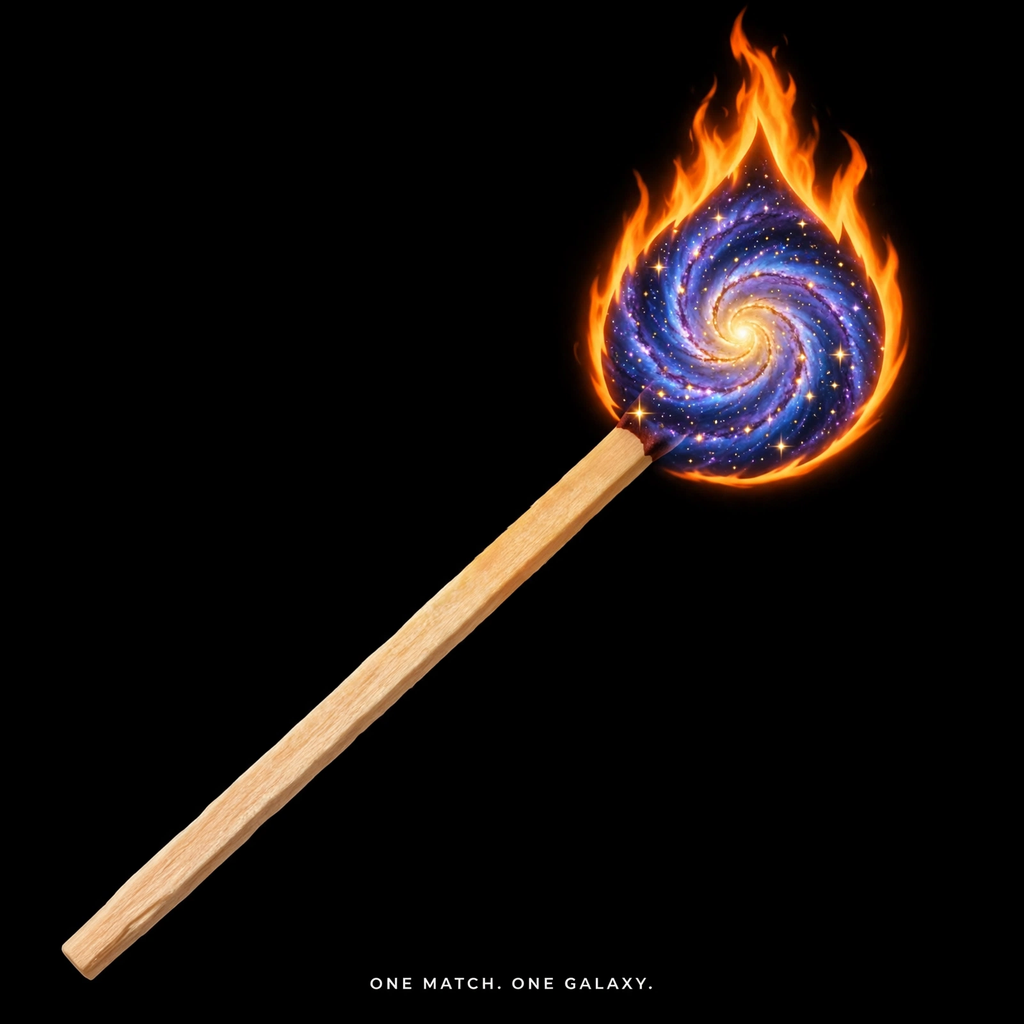
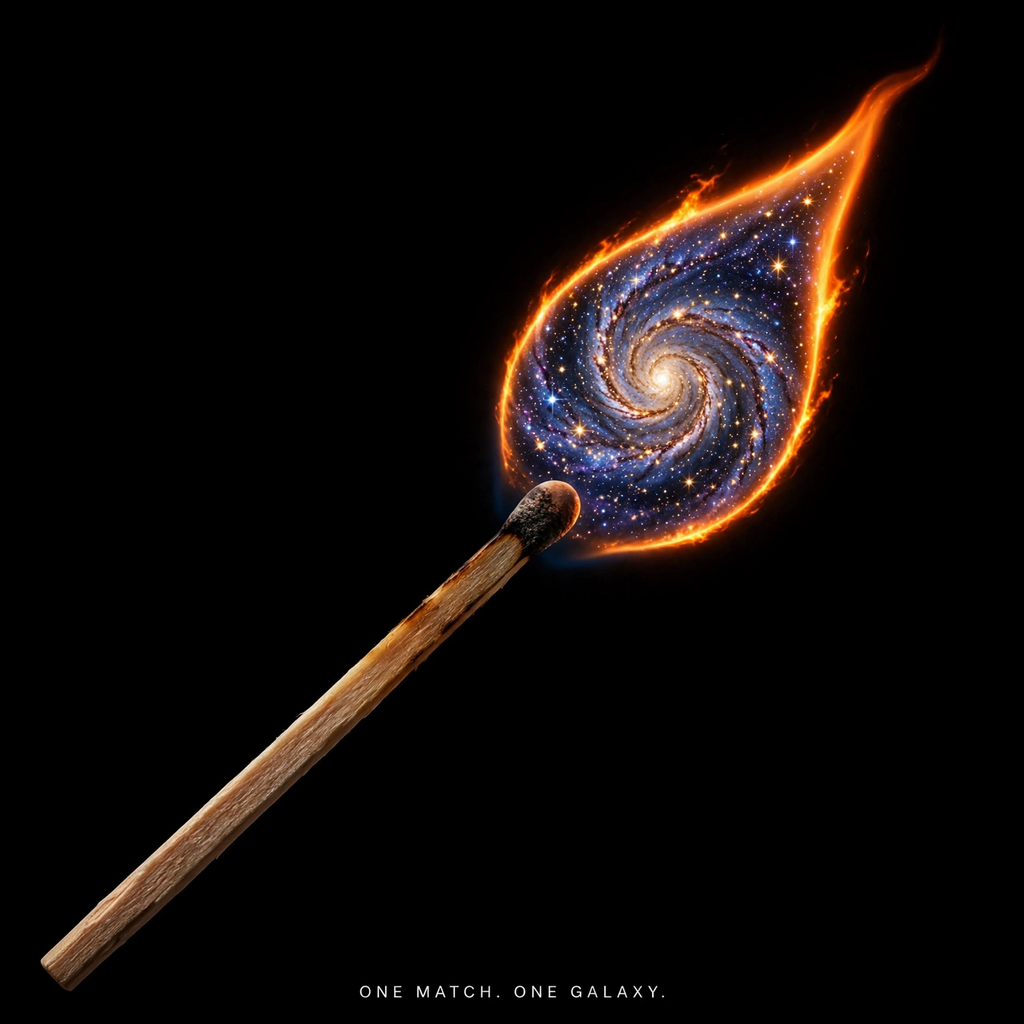
ai-excited-01: rebuild entry from scratch — one match, one galaxy (fresh build)

Changed region(s): [[0.0312, 0.0, 0.9062, 0.9688], [0.3438, 0.9375, 0.625, 0.9688], [0.9062, 0.0312, 0.9375, 0.0625]]

diff --git a/main.ts b/main.ts
@@ -1,31 +1,43 @@
 // ai-excited-01 — "One Match. One Galaxy."
 //
-// The entry image is committed to this repo as entry.png. At run time this
-// program simply copies that file to the output location the platform
-// expects, so the run is fully deterministic: same input bytes in, same
-// output bytes out, every time. No network, no randomness, no image work
-// at runtime — the pixels were made during the build, not on the judge's
-// clock.
+// The entry image is committed next to this file as entry.png. This
+// program simply copies that exact image into the output directory
+// requested by the runner, so every run produces byte-identical output.
+//
+// Output directory resolution:
+//   1. MAKEFUN_OUTPUT_DIR, when it is set to a non-empty value.
+//   2. Otherwise the fallback /output.
+//
+// Node 22, standard library only. No network access.
 
-import { copyFileSync, mkdirSync, statSync } from "node:fs";
-import { dirname, join } from "node:path";
+import { copyFileSync, mkdirSync } from "node:fs";
+import { dirname, join, resolve } from "node:path";
 import { fileURLToPath } from "node:url";
 
-// Resolve the directory this script lives in, so the copy works no matter
-// which working directory the runner starts from.
-const here = dirname(fileURLToPath(import.meta.url));
-const source = join(here, "entry.png");
+const OUTPUT_FILE = "entry.png";
+const FALLBACK_DIR = "/output";
 
-// The platform tells us where to write via MAKEFUN_OUTPUT_DIR; without it
-// we fall back to /output/entry.png. A value that is only whitespace is
-// treated exactly like an unset variable.
-const rawDir = process.env.MAKEFUN_OUTPUT_DIR;
-const outDir = rawDir && rawDir.trim() !== "" ? rawDir.trim() : "/output";
-const destination = join(outDir, "entry.png");
+function resolveOutputDir(): string {
+  const raw = process.env.MAKEFUN_OUTPUT_DIR;
+  if (typeof raw === "string" && raw.trim() !== "") {
+    // Accept relative paths too: resolve them against the working directory.
+    return resolve(raw.trim());
+  }
+  return FALLBACK_DIR;
+}
 
-mkdirSync(outDir, { recursive: true });
-copyFileSync(source, destination);
+function main(): void {
+  const outDir = resolveOutputDir();
+  const outPath = join(outDir, OUTPUT_FILE);
 
-// Log the copied size so a run can be sanity-checked at a glance.
-const bytes = statSync(destination).size;
-console.log(`Wrote ${destination} (${bytes} bytes)`);
+  // The committed image lives beside this script.
+  const here = dirname(fileURLToPath(import.meta.url));
+  const sourcePath = join(here, OUTPUT_FILE);
+
+  mkdirSync(outDir, { recursive: true });
+  copyFileSync(sourcePath, outPath);
+
+  console.log(`Copied ${sourcePath} -> ${outPath}`);
+}
+
+main();

diff --git a/README.md b/README.md
@@ -1,17 +1,16 @@
 # One Match. One Galaxy.
 
-A single wooden matchstick, struck — and instead of an ordinary flame, a
-whole spiral galaxy burns at its tip: blue and violet arms, gold stars,
-a blazing core, held inside a clean flame outline on a pure black
-background. One small spark, one entire universe. Caption: "ONE MATCH.
-ONE GALAXY."
+A make.fun bounty entry for **ai-excited-01** — "Make the AI judge excited".
 
-Entry for the [make.fun](https://make.fun/c/ai-excited-01) competition
-**ai-excited-01** ("Make the AI judge excited"). The program (`main.ts`,
-Node 22, standard library only) copies the committed `entry.png` to
-`MAKEFUN_OUTPUT_DIR/entry.png` (or `/output/entry.png`), so the output is
-byte-identical on every run. No network, no randomness.
+A single wooden matchstick runs diagonally across a pure black background.
+Its tip is lit — and inside the flame burns a huge spiral galaxy: blue,
+violet and gold stars swirling around a bright white-gold core, edged with
+a thin rim of orange fire. One match. One galaxy.
 
 [![ai-excited-01](https://make.fun/badge/ai-excited-01.svg)](https://make.fun/c/ai-excited-01)
 [![rank](https://make.fun/badge/ai-excited-01/WV629/ai-excited-01-entry/rank.svg)](https://make.fun/c/ai-excited-01)
 [![reward](https://make.fun/badge/ai-excited-01/WV629/ai-excited-01-entry/reward.svg)](https://make.fun/c/ai-excited-01)
+
+`main.ts` (Node 22, standard library only) copies the committed `entry.png`
+to `MAKEFUN_OUTPUT_DIR/entry.png` (falling back to `/output/entry.png`), so
+every run writes byte-identical output.
